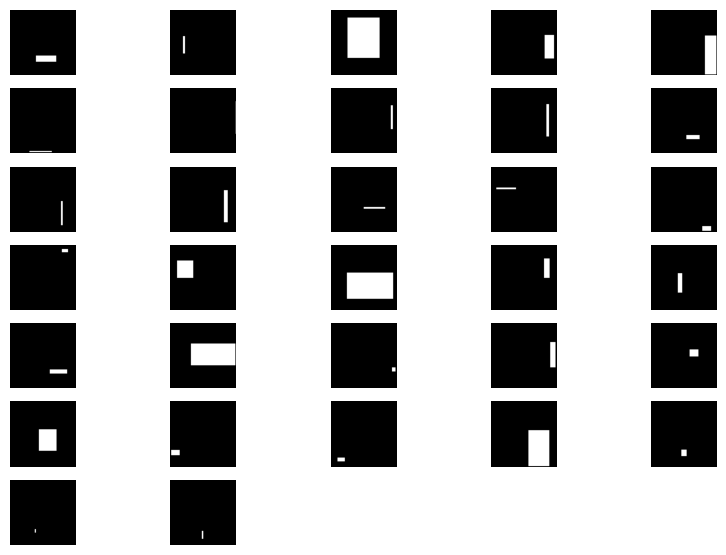
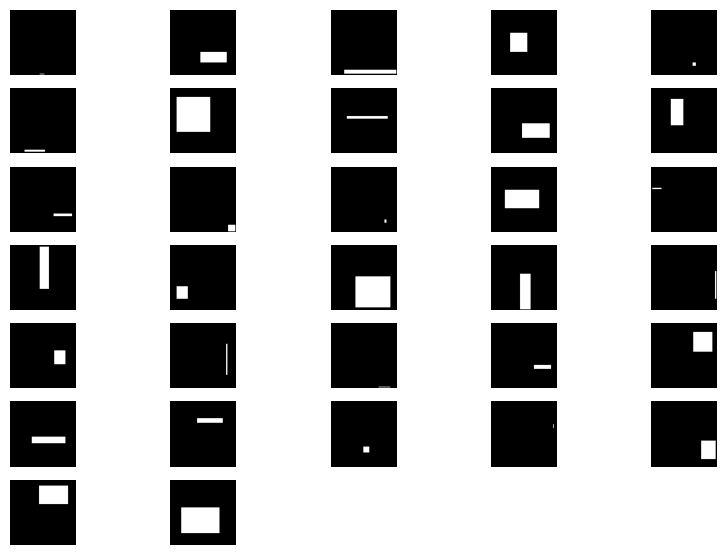
Updated with code changes

diff --git a/_posts/2022-10-23-localization-1.md b/_posts/2022-10-23-localization-1.md
@@ -11,6 +11,7 @@ tags:
   - vgg16
 ---
 
+
 This is my implementation of the Localization part 1 lectures from Lazy Programmer's Deep Learning and Advanced Computer Vision course. The objective is to start by creating black and white images where there is a black background and a single randomly placed, random sized white rectangle. We then train a network to output the location of the rectangle.
 
 Using a topless, pre-trained VGG16 network as a feature extractor we build a small dense layer with four outputs. The outputs represent the column, row, width and height of the white rectangle.
@@ -30,6 +31,13 @@ from PIL import Image, ImageDraw
 
 Create the model by starting with a trained, topless VGG16, flattening the outputs as they'll be 2D tensors, and the final dense layer with four outputs and sigmoid activation.
 
+VGG16 inputs are usually images of shape 224x224 pixels but to make things a bit faster, we're going to use images of 100x100 pixels.
+
+
+```python
+IMAGE_DIM = 100
+```
+
 We want to make sure we don't try and train the Conv2D layers as it'll take too long so that part of the model is marked as untrainable.
 
 It's then compiled with binary crossentropy as the loss function and the Adam optimizer.
@@ -38,7 +46,7 @@ It's then compiled with binary crossentropy as the loss function and the Adam op
 ```python
 # create the model
 vgg16 = tf.keras.applications.vgg16.VGG16(
-    input_shape=(224, 224, 3), 
+    input_shape=(IMAGE_DIM, IMAGE_DIM, 3), 
     include_top=False, 
     weights='imagenet'
 )
@@ -54,58 +62,57 @@ x = tf.keras.layers.Dense(4, activation="sigmoid")(x)
 model = tf.keras.Model(vgg16.input, x, name="Localization_Model")
 model.compile(loss='binary_crossentropy', optimizer='adam', metrics=['accuracy'])
 model.summary()
-
 ```
 
     Model: "Localization_Model"
     _________________________________________________________________
      Layer (type)                Output Shape              Param #   
     =================================================================
-     input_3 (InputLayer)        [(None, 224, 224, 3)]     0         
+     input_6 (InputLayer)        [(None, 100, 100, 3)]     0         
                                                                      
-     block1_conv1 (Conv2D)       (None, 224, 224, 64)      1792      
+     block1_conv1 (Conv2D)       (None, 100, 100, 64)      1792      
                                                                      
-     block1_conv2 (Conv2D)       (None, 224, 224, 64)      36928     
+     block1_conv2 (Conv2D)       (None, 100, 100, 64)      36928     
                                                                      
-     block1_pool (MaxPooling2D)  (None, 112, 112, 64)      0         
+     block1_pool (MaxPooling2D)  (None, 50, 50, 64)        0         
                                                                      
-     block2_conv1 (Conv2D)       (None, 112, 112, 128)     73856     
+     block2_conv1 (Conv2D)       (None, 50, 50, 128)       73856     
                                                                      
-     block2_conv2 (Conv2D)       (None, 112, 112, 128)     147584    
+     block2_conv2 (Conv2D)       (None, 50, 50, 128)       147584    
                                                                      
-     block2_pool (MaxPooling2D)  (None, 56, 56, 128)       0         
+     block2_pool (MaxPooling2D)  (None, 25, 25, 128)       0         
                                                                      
-     block3_conv1 (Conv2D)       (None, 56, 56, 256)       295168    
+     block3_conv1 (Conv2D)       (None, 25, 25, 256)       295168    
                                                                      
-     block3_conv2 (Conv2D)       (None, 56, 56, 256)       590080    
+     block3_conv2 (Conv2D)       (None, 25, 25, 256)       590080    
                                                                      
-     block3_conv3 (Conv2D)       (None, 56, 56, 256)       590080    
+     block3_conv3 (Conv2D)       (None, 25, 25, 256)       590080    
                                                                      
-     block3_pool (MaxPooling2D)  (None, 28, 28, 256)       0         
+     block3_pool (MaxPooling2D)  (None, 12, 12, 256)       0         
                                                                      
-     block4_conv1 (Conv2D)       (None, 28, 28, 512)       1180160   
+     block4_conv1 (Conv2D)       (None, 12, 12, 512)       1180160   
                                                                      
-     block4_conv2 (Conv2D)       (None, 28, 28, 512)       2359808   
+     block4_conv2 (Conv2D)       (None, 12, 12, 512)       2359808   
                                                                      
-     block4_conv3 (Conv2D)       (None, 28, 28, 512)       2359808   
+     block4_conv3 (Conv2D)       (None, 12, 12, 512)       2359808   
                                                                      
-     block4_pool (MaxPooling2D)  (None, 14, 14, 512)       0         
+     block4_pool (MaxPooling2D)  (None, 6, 6, 512)         0         
                                                                      
-     block5_conv1 (Conv2D)       (None, 14, 14, 512)       2359808   
+     block5_conv1 (Conv2D)       (None, 6, 6, 512)         2359808   
                                                                      
-     block5_conv2 (Conv2D)       (None, 14, 14, 512)       2359808   
+     block5_conv2 (Conv2D)       (None, 6, 6, 512)         2359808   
                                                                      
-     block5_conv3 (Conv2D)       (None, 14, 14, 512)       2359808   
+     block5_conv3 (Conv2D)       (None, 6, 6, 512)         2359808   
                                                                      
-     block5_pool (MaxPooling2D)  (None, 7, 7, 512)         0         
+     block5_pool (MaxPooling2D)  (None, 3, 3, 512)         0         
                                                                      
-     flatten_2 (Flatten)         (None, 25088)             0         
+     flatten_5 (Flatten)         (None, 4608)              0         
                                                                      
-     dense_2 (Dense)             (None, 4)                 100356    
+     dense_5 (Dense)             (None, 4)                 18436     
                                                                      
     =================================================================
-    Total params: 14,815,044
-    Trainable params: 100,356
+    Total params: 14,733,124
+    Trainable params: 18,436
     Non-trainable params: 14,714,688
     _________________________________________________________________
 
@@ -114,25 +121,19 @@ You can see from the summary above that nearly all of the weights are untrainabl
 
 Next we create a generator for the training images. It works by creating them at random on the fly. For this I created class derived from [tf.keras.utils.Sequence](https://www.tensorflow.org/api_docs/python/tf/keras/utils/Sequence).
 
-Note that while the sigmoid function is good with values of x from -5 to 5 (and probably beyond), I got better results by limiting the range to -1 to 1. This might mean it'll work better with a different activation function (e.g. identity or leaky ReLU) but I didn't try that this time.
+Note that while the sigmoid function is good with values of x from -5 to 5 (and probably beyond). In this case we'll use the range 0..1.
 
 
 ```python
 class LocalizationSequence(tf.keras.utils.Sequence):
     def __init__(self, batch_size):
         self.batch_size = batch_size
-        self.size_rows = 224
-        self.size_cols = 224
-        
         
     def preprocess_y_value(self, y):
         """
-        Sets the range of y to -1..1 and applies the sigmoid function
-        so it matches the output of the model.
+        Sets the range of y to 0..1.
         """
-        rv = (y / (224 / 2))
-        rv = rv - 1
-        return tf.math.sigmoid(rv)
+        return y / IMAGE_DIM
         
         
     def generate_image(self):
@@ -140,10 +141,11 @@ class LocalizationSequence(tf.keras.utils.Sequence):
         Generates a random image with a black background and a single white
         rectangle inside it. 
         """
-        img = np.zeros((self.size_rows, self.size_cols, 3))
-        block_top, block_left = random.randint(1, 224 - 2), random.randint(1, 224 - 2)
-        block_width = random.randint(1, 224 - 1 - block_left)
-        block_height = random.randint(1, 224 - 1 - block_top)
+        img = np.zeros((IMAGE_DIM, IMAGE_DIM, 3))
+        block_top = random.randint(1, IMAGE_DIM - 2)
+        block_left = random.randint(1, IMAGE_DIM - 2)
+        block_width = random.randint(1, IMAGE_DIM - 1 - block_left)
+        block_height = random.randint(1, IMAGE_DIM - 1 - block_top)
         
         for row in range(block_top, block_top + block_height):
             for col in range(block_left, block_left + block_width):
@@ -166,7 +168,11 @@ class LocalizationSequence(tf.keras.utils.Sequence):
         Return a batch of images preprepared for training. I.e. colour ranges
         are 0..1 and not 0..255.
         """
-        batch_x = np.empty([self.batch_size, 224, 224, 3], dtype=np.float32)
+        batch_x = np.empty(
+            [self.batch_size, IMAGE_DIM, IMAGE_DIM, 3], 
+            dtype=np.float32
+        )
+        
         batch_y = np.empty([self.batch_size, 4], dtype=np.float32)
         
         for i in range(self.batch_size):
@@ -198,7 +204,6 @@ plt.show()
 ```
 
 
-    
 ![Sample output from the generator](/assets/localization-1-1.png)
     
 
@@ -207,29 +212,25 @@ Next we train the model using the LocalizationSequence object.
 
 
 ```python
-history = model.fit(seq, epochs=10)
+history = model.fit(seq, epochs=8)
 ```
 
-    Epoch 1/10
-    32/32 [==============================] - 174s 5s/step - loss: 0.7119 - accuracy: 0.5967
-    Epoch 2/10
-    32/32 [==============================] - 184s 6s/step - loss: 0.6551 - accuracy: 0.8496
-    Epoch 3/10
-    32/32 [==============================] - 195s 6s/step - loss: 0.6513 - accuracy: 0.9033
-    Epoch 4/10
-    32/32 [==============================] - 206s 6s/step - loss: 0.6499 - accuracy: 0.9395
-    Epoch 5/10
-    32/32 [==============================] - 204s 6s/step - loss: 0.6496 - accuracy: 0.9199
-    Epoch 6/10
-    32/32 [==============================] - 190s 6s/step - loss: 0.6508 - accuracy: 0.9434
-    Epoch 7/10
-    32/32 [==============================] - 191s 6s/step - loss: 0.6504 - accuracy: 0.9521
-    Epoch 8/10
-    32/32 [==============================] - 193s 6s/step - loss: 0.6505 - accuracy: 0.9336
-    Epoch 9/10
-    32/32 [==============================] - 195s 6s/step - loss: 0.6499 - accuracy: 0.9336
-    Epoch 10/10
-    32/32 [==============================] - 196s 6s/step - loss: 0.6490 - accuracy: 0.9346
+    Epoch 1/8
+    32/32 [==============================] - 35s 1s/step - loss: 0.5730 - accuracy: 0.6699
+    Epoch 2/8
+    32/32 [==============================] - 36s 1s/step - loss: 0.5057 - accuracy: 0.8906
+    Epoch 3/8
+    32/32 [==============================] - 37s 1s/step - loss: 0.4984 - accuracy: 0.9082
+    Epoch 4/8
+    32/32 [==============================] - 37s 1s/step - loss: 0.4916 - accuracy: 0.9160
+    Epoch 5/8
+    32/32 [==============================] - 37s 1s/step - loss: 0.4889 - accuracy: 0.9414
+    Epoch 6/8
+    32/32 [==============================] - 39s 1s/step - loss: 0.4881 - accuracy: 0.9209
+    Epoch 7/8
+    32/32 [==============================] - 41s 1s/step - loss: 0.4873 - accuracy: 0.9297
+    Epoch 8/8
+    32/32 [==============================] - 42s 1s/step - loss: 0.4876 - accuracy: 0.9473
 
 
 Plot the accuracy from the `model.fit()`.
@@ -255,22 +256,13 @@ Training can take some time so save out the model so it can be loaded from disk 
 model.save('saved-models/localization-1.h5', overwrite=True)
 ```
 
-The `reverse_sigmoid()` function reverses the sigmoid activation to a value proportional to the image size.
-
-
-```python
-def reverse_sigmoid(y):
-    return np.log(y / (1 - y))
-```
-
-The `to_pil_rect()` function takes the y outputs from the model, reverses the sigmoid activation and converts the values into the correct coordinates for the input.
+The `to_pil_rect()` function takes the y outputs from the model and converts the values into the correct coordinates for the input.
 
 
 ```python
 def to_pil_rect(y):
-    rv = reverse_sigmoid(y)
-    rv = (rv + 1) * 112
-    rv = np.clip(rv, 1, 223)
+    rv = y * IMAGE_DIM
+    rv = np.clip(rv, 1, IMAGE_DIM)
     [top, left, height, width] = rv
     height += top
     width += left
@@ -287,7 +279,7 @@ x, y = seq.__getitem__(0)
 print(f'Generated data for predictions: {x.shape}')
 ```
 
-    Generated data for predictions: (32, 224, 224, 3)
+    Generated data for predictions: (32, 100, 100, 3)
 
 
 As you can see, we've created a batch of 32 test images.
@@ -300,7 +292,7 @@ x.shape
 
 
 
-    (32, 224, 224, 3)
+    (32, 100, 100, 3)
 
 
 
@@ -311,7 +303,7 @@ Use the trained model to make some predictions from the new batch.
 y_predicted = model.predict(x)
 ```
 
-    1/1 [==============================] - 6s 6s/step
+    1/1 [==============================] - 1s 1s/step
 
 
 Create the boxes for both the actual boxes and the predicted ones.
@@ -331,7 +323,7 @@ Convert the numpy array into a PIL image so we can work with it as an image.
 
 ```python
 def add_bounding_boxes():
-    rv = np.zeros((seq.batch_size, 224, 224, 3), dtype=np.uint8)
+    rv = np.zeros((seq.batch_size, IMAGE_DIM, IMAGE_DIM, 3), dtype=np.uint8)
     for i in range(seq.batch_size):
         im = Image.fromarray(np.uint8(x[i] * 255), mode='RGB')
 
@@ -379,7 +371,3 @@ for i in range(9):
 
 
 In the output above you can see the green boxes that are the results of the predictions and the yellow boxes that use the same maths to reverse the sigmoid function and validate that that maths is correct.
-
-## Further Experiments
-1. I'd like to remove the sigmoid activation function as I'm not sure this is really adding anything. Perhaps try some of the ones found [here](https://en.wikipedia.org/wiki/Activation_function).
-2. Dynamically change the learning rate during `model.fit()` to see if I can get some more accuracy out of the model.
